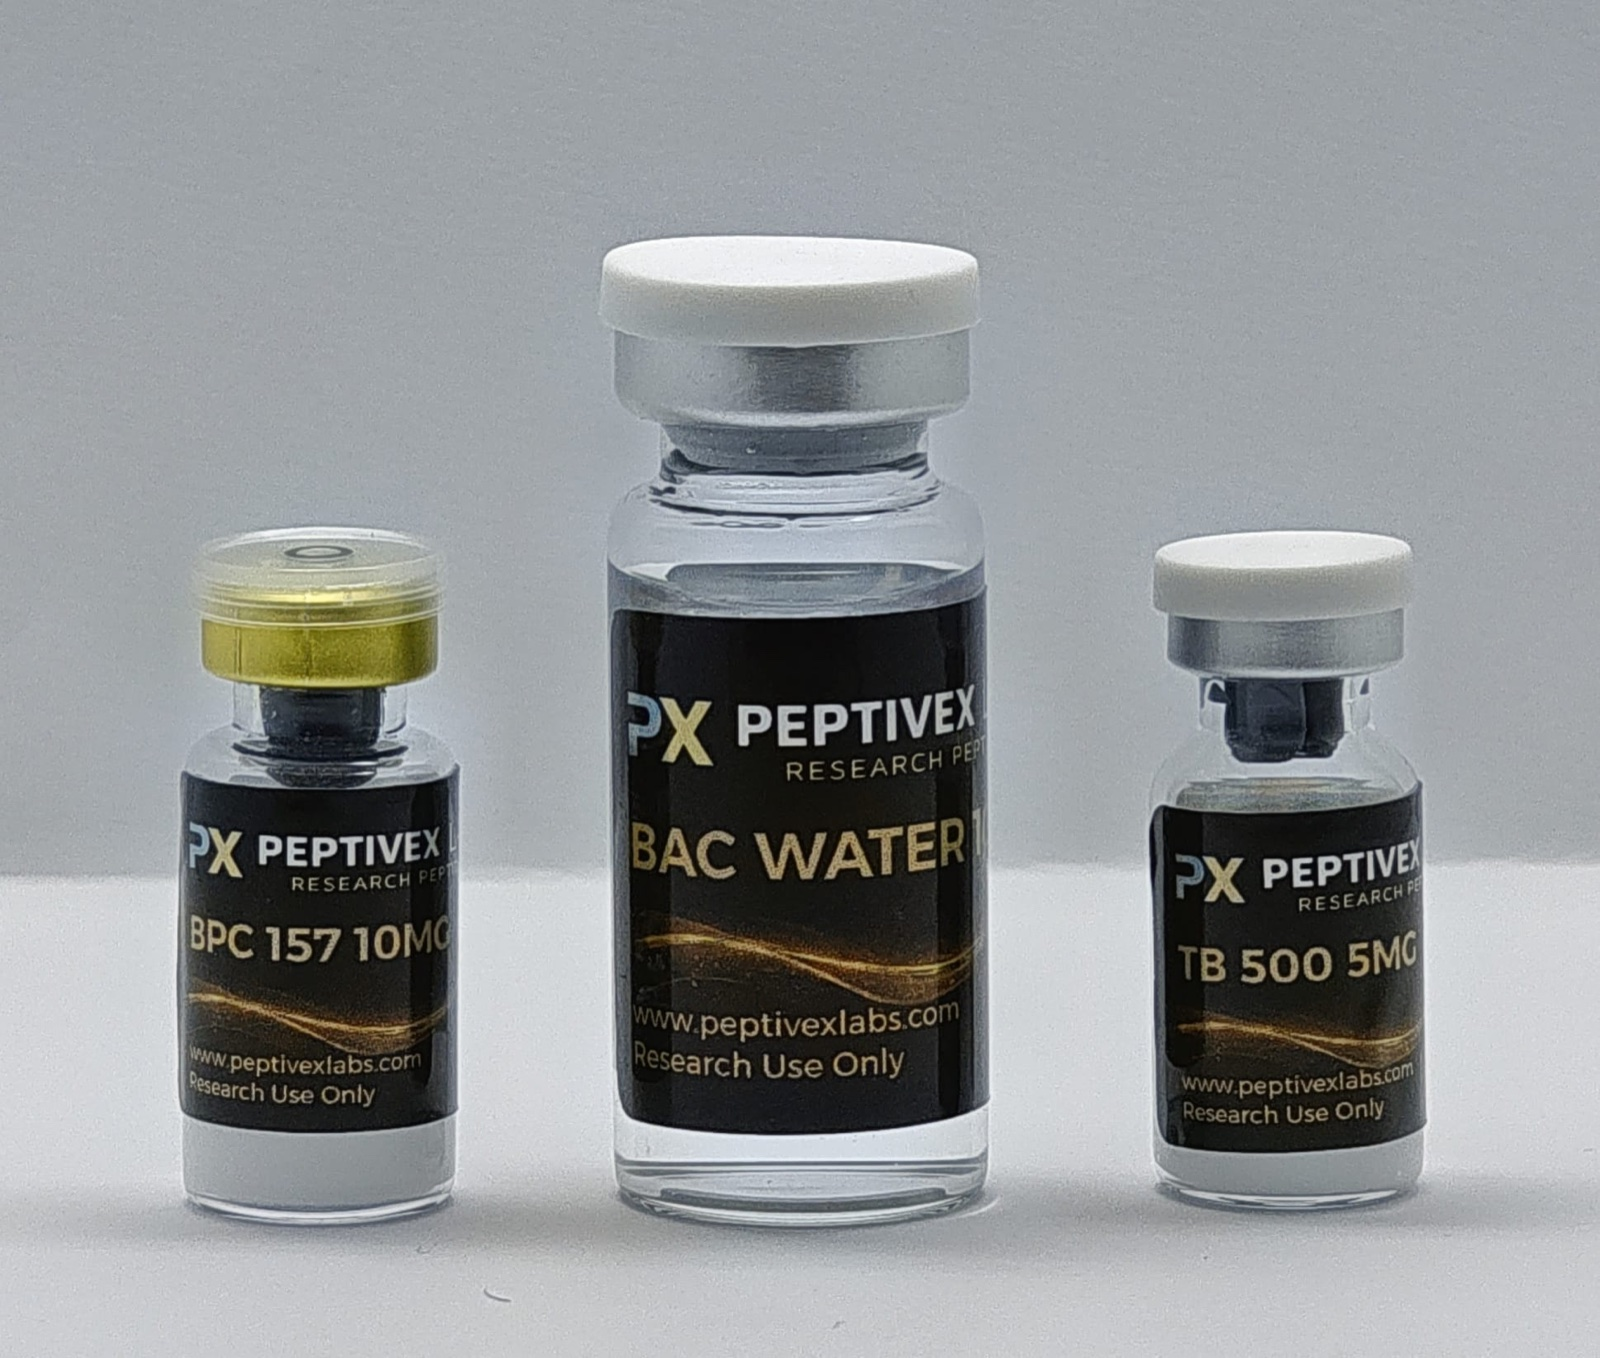
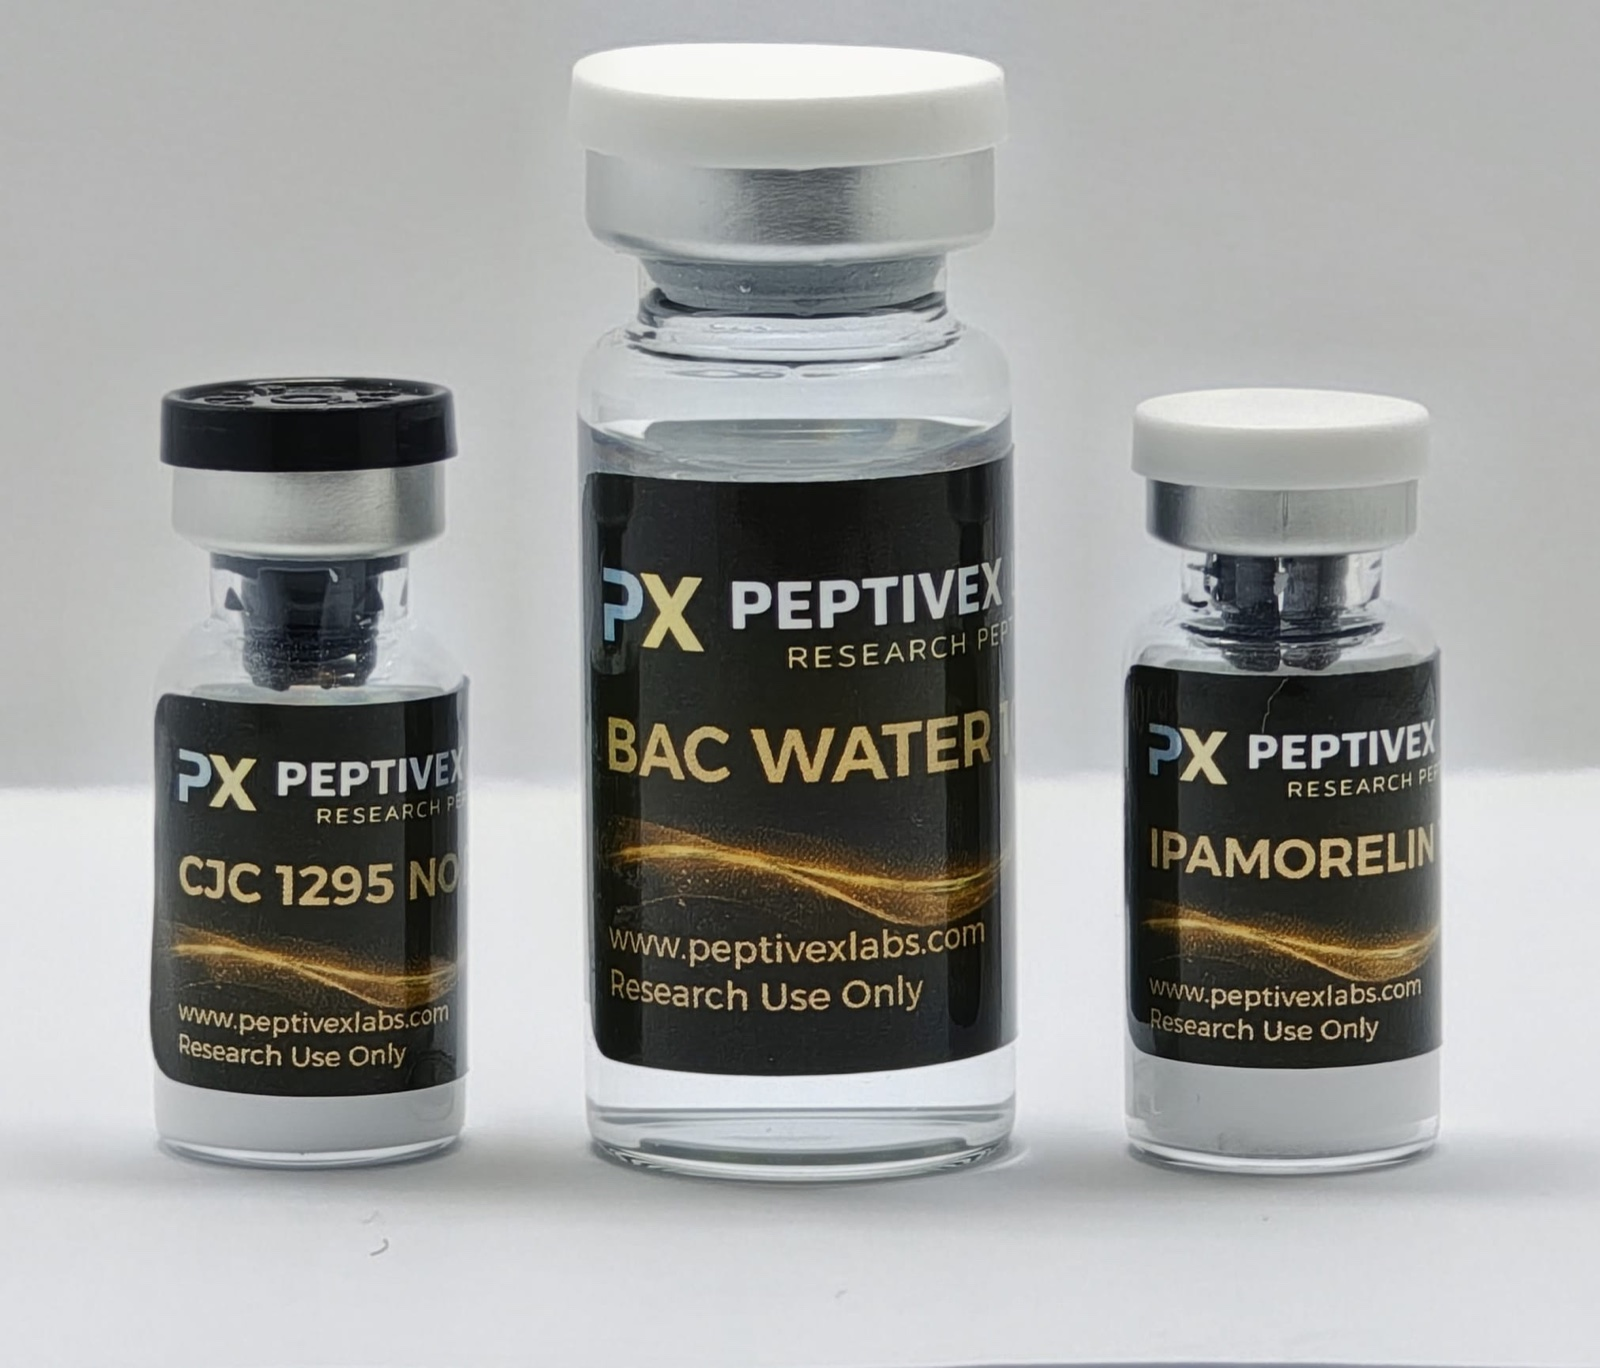
fix: poprawa produktów combo — pomieszane zdjęcia i dawki CJC+Ipa
Problemy zgłoszone przez Jakuba:
- Pliki zdjęć były przesunięte między produktami (image z Retatrutide combo był pod nazwą BPC+TB, BPC+TB pod CJC+Ipa, CJC+Ipa pod Bac Water, Bac Water pod NAD+ combo)
- Combo CJC+Ipa miało dawki 5mg + 5mg, powinno być 10mg + 10mg (Bac Water 10ml)

Zmiany:
- Rename 4 plików obrazków aby zawartość zgadzała się z produktem
- combo-reta-motsc-bac: image zmieniony z retatrutide-set.jpg na combo-reta-motsc-bac.jpg
- combo-nad-motsc-bac: tymczasowo używa nad-500mg.jpg (brak dedykowanego zdjęcia)
- combo-cjc-ipa-bac: dawki 5mg+5mg → 10mg+10mg, cena 200 zł → 300 zł (60 GBP)
- nowy produkt standalone: CJC-1295 No DAC 10mg (150 zł / 30 GBP)

diff --git a/src/data/products.ts b/src/data/products.ts
@@ -267,6 +267,27 @@ export const PRODUCTS: Product[] = [
     order: 12,
   },
   {
+    id: 'cjc-1295-10mg',
+    slug: 'cjc-1295-no-dac-10mg',
+    name_pl: 'CJC-1295 No DAC 10mg',
+    name_en: 'CJC-1295 No DAC 10mg',
+    short_pl: 'Analog GHRH. Większa dawka do rozszerzonych protokołów.',
+    short_en: 'GHRH analog. Higher dose for extended protocols.',
+    description_pl: 'CJC-1295 No DAC 10mg (Mod-GRF 1-29) — większa fiolka zmodyfikowanego analogu hormonu uwalniającego hormon wzrostu. Stymuluje pulsacyjne wydzielanie GH poprzez receptor GHRH, zachowując fizjologiczny rytm pulsacji. Brak grupy DAC skraca okres półtrwania do około 30 minut, co pozwala kontrolować czas działania. Najczęściej badany w synergii z Ipamorelin dla wzmocnionego pulsu GH. Format 10mg dedykowany do wielotygodniowych protokołów badawczych.',
+    description_en: 'CJC-1295 No DAC 10mg (Mod-GRF 1-29) — larger vial of the modified Growth Hormone-Releasing Hormone analog. Stimulates pulsatile GH secretion via GHRH receptor while preserving physiological pulse rhythm. Absence of DAC group shortens half-life to approximately 30 minutes, allowing controlled duration of action. Most commonly studied in synergy with Ipamorelin for enhanced GH pulse. 10mg format dedicated to extended multi-week research protocols.',
+    image: '/images/products/cjc-1295-5mg.jpg',
+    price_pln: 15000,
+    price_gbp: 3000,
+    stock_pl: 25,
+    stock_uk: 15,
+    category: 'growth-hormone',
+    format: 'vial',
+    dosage: '10mg',
+    disclaimer: true,
+    featured: false,
+    order: 28,
+  },
+  {
     id: 'melanotan-2-10mg',
     slug: 'melanotan-2-10mg',
     name_pl: 'Melanotan 2 10mg',
@@ -507,7 +528,7 @@ export const PRODUCTS: Product[] = [
     short_en: 'Metabolic stack. Mitochondria + longevity.',
     description_pl: 'Zestaw skupiony na funkcji mitochondrialnej i metabolizmie: NAD+ 500mg (koenzym dla 500+ reakcji, ko-substrat sirtuin), MOTS-c 10mg (peptyd kodowany przez mtDNA, regulator AMPK), plus Bac Water 10ml do rekonstytucji. Kompletny zestaw badawczy bez konieczności kupowania rozpuszczalnika oddzielnie.',
     description_en: 'Stack focused on mitochondrial function and metabolism: NAD+ 500mg (coenzyme for 500+ reactions, sirtuin co-substrate), MOTS-c 10mg (mtDNA-encoded peptide, AMPK regulator), plus Bac Water 10ml for reconstitution. Complete research bundle, no need to source diluent separately.',
-    image: '/images/products/combo-nad-motsc-bac.jpg',
+    image: '/images/products/nad-500mg.jpg',
     price_pln: 37500,
     price_gbp: 6500,
     stock_pl: 12,
@@ -522,20 +543,20 @@ export const PRODUCTS: Product[] = [
   {
     id: 'combo-cjc-ipa-bac',
     slug: 'combo-cjc-ipa-bac',
-    name_pl: 'Combo: CJC-1295 5mg + Ipamorelin 5mg + Bac Water',
-    name_en: 'Combo: CJC-1295 5mg + Ipamorelin 5mg + Bac Water',
+    name_pl: 'Combo: CJC-1295 No DAC 10mg + Ipamorelin 10mg + Bac Water',
+    name_en: 'Combo: CJC-1295 No DAC 10mg + Ipamorelin 10mg + Bac Water',
     short_pl: 'Klasyczny stack GH. Synergia GHRH + GHRP.',
     short_en: 'Classic GH stack. GHRH + GHRP synergy.',
-    description_pl: 'Klasyczny zestaw badawczy nad hormonem wzrostu: CJC-1295 No DAC 5mg (analog GHRH) + Ipamorelin 5mg (najbardziej selektywny GHRP) + Bac Water 10ml. Dwa peptydy stosowane w literaturze naukowej jako synergiczna para do protokołów nad pulsacyjnym uwalnianiem GH.',
-    description_en: 'Classic growth hormone research stack: CJC-1295 No DAC 5mg (GHRH analog) + Ipamorelin 5mg (most selective GHRP) + Bac Water 10ml. Two peptides cited in scientific literature as a synergistic pair for pulsatile GH release protocols.',
+    description_pl: 'Klasyczny zestaw badawczy nad hormonem wzrostu: CJC-1295 No DAC 10mg (analog GHRH) + Ipamorelin 10mg (najbardziej selektywny GHRP) + Bac Water 10ml. Dwa peptydy stosowane w literaturze naukowej jako synergiczna para do protokołów nad pulsacyjnym uwalnianiem GH. Format 10mg + 10mg dedykowany do rozszerzonych wielotygodniowych protokołów.',
+    description_en: 'Classic growth hormone research stack: CJC-1295 No DAC 10mg (GHRH analog) + Ipamorelin 10mg (most selective GHRP) + Bac Water 10ml. Two peptides cited in scientific literature as a synergistic pair for pulsatile GH release protocols. 10mg + 10mg format dedicated to extended multi-week protocols.',
     image: '/images/products/combo-cjc-ipa-bac.jpg',
-    price_pln: 20000,
-    price_gbp: 4000,
+    price_pln: 30000,
+    price_gbp: 6000,
     stock_pl: 20,
     stock_uk: 15,
     category: 'combo',
     format: 'vial',
-    dosage: 'CJC 5mg + Ipa 5mg + Bac 10ml',
+    dosage: 'CJC 10mg + Ipa 10mg + Bac 10ml',
     disclaimer: true,
     featured: false,
     order: 25,
@@ -570,7 +591,7 @@ export const PRODUCTS: Product[] = [
     short_en: 'Premium metabolic stack. Triple agonist + mitochondria.',
     description_pl: 'Premium zestaw metaboliczny łączący Retatrutide 40mg pen (triple agonist GLP-1/GIP/Glucagon) z MOTS-c 10mg (peptyd mitochondrialny) oraz Bac Water 10ml. Kompletny protokół badawczy obejmujący oś regulacji glukozy oraz funkcję mitochondrialną. Dostępna opcja injection pen dla MOTS-c 10mg.',
     description_en: 'Premium metabolic stack combining Retatrutide 40mg pen (GLP-1/GIP/Glucagon triple agonist) with MOTS-c 10mg (mitochondrial peptide) and Bac Water 10ml. Complete research protocol covering the glucose regulation axis and mitochondrial function. Optional injection pen available for MOTS-c 10mg.',
-    image: '/images/products/retatrutide-set.jpg',
+    image: '/images/products/combo-reta-motsc-bac.jpg',
     coa: '/coa/retatrutide-coa.pdf',
     price_pln: 105000,
     price_gbp: 21000,
